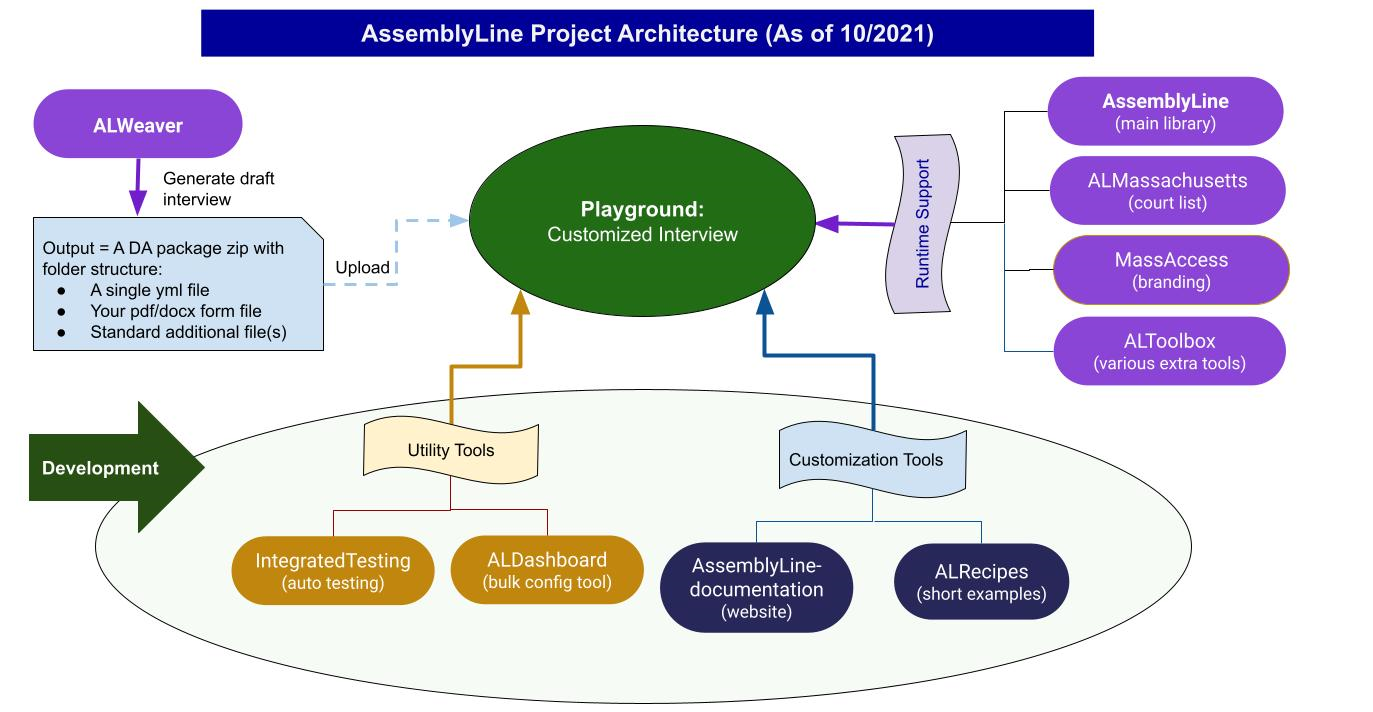
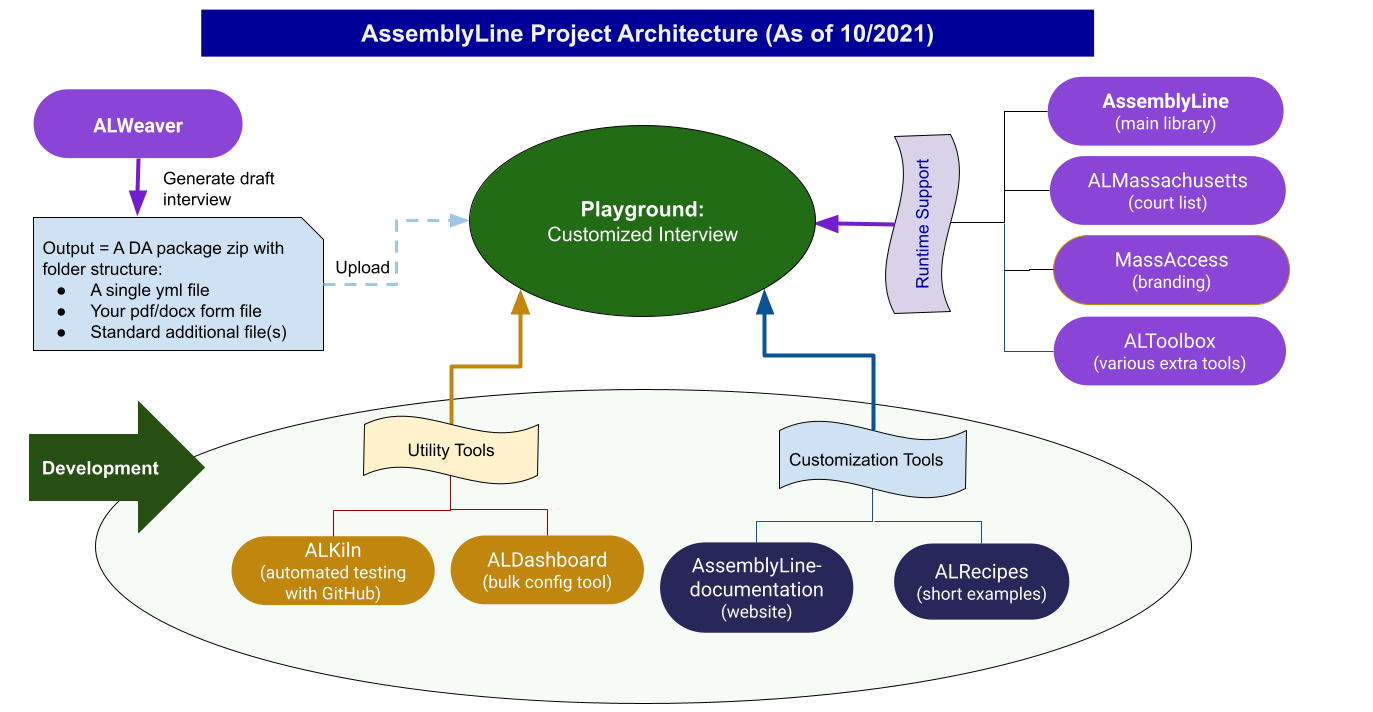
Fix link and reference to kiln. Couldn't change the image, so I (#196)
* Fix link and reference to kiln. Couldn't change the image, so I

kept the word "integrated". Where's the source file of the image?
I can update that and make the page more clear.

* Update to new architecture image and re-word accordingly

diff --git a/docs/al_project_architecture.md b/docs/al_project_architecture.md
@@ -19,7 +19,7 @@ Below is a snapshot of the Project's overall architecture as of **October 2021**
 1. [MassAccess](https://github.com/suffolkLITLab/docassemble-MassAccess)
 1. [ALToolbox](https://github.com/suffolkLITLab/docassemble-ALToolbox)
 
-1. [IntegratedTesting](https://github.com/suffolkLITLab/docassemble-IntegratedTesting)
+1. [ALKiln](https://github.com/SuffolkLITLab/ALKiln)
 1. [ALDashboard](https://github.com/suffolkLITLab/docassemble-ALDashboard)
 
 1. [AssemblyLine-
